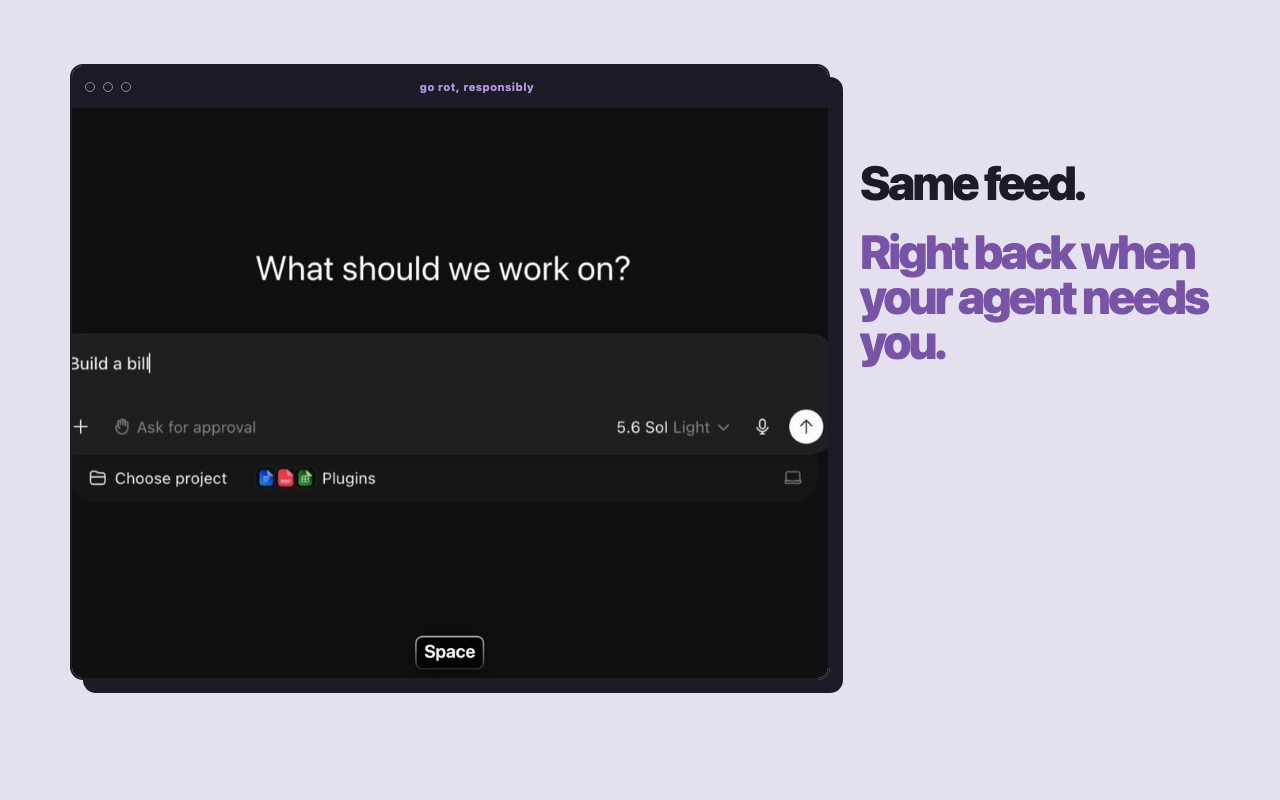
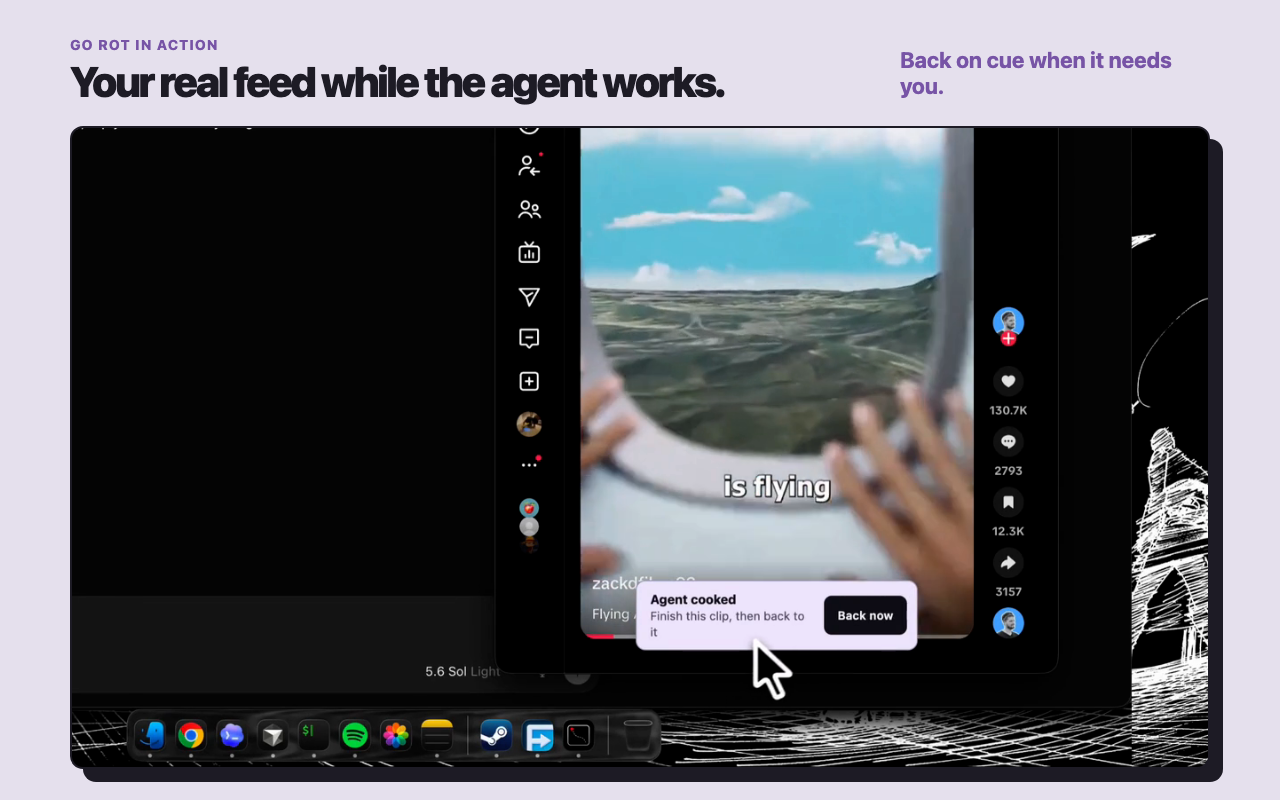
improve Chrome Store artwork

diff --git a/release/chrome-store/store-art.css b/release/chrome-store/store-art.css
@@ -51,12 +51,13 @@ h1 span { color: var(--lilac); }
 
 body[data-asset="screenshot-demo"] .copy,
 body[data-asset="screenshot-demo"] .panel-shot { display: none; }
-body[data-asset="screenshot-demo"] .demo-shot { display: block; width: 100%; height: 100%; padding: 64px 70px; }
-.demo-frame { width: 760px; overflow: hidden; border: 2px solid var(--graphite); border-radius: 13px; box-shadow: 13px 13px 0 var(--graphite); }
-.demo-frame img { display: block; width: 100%; height: 570px; object-fit: cover; }
-.demo-copy { position: absolute; top: 160px; right: 70px; width: 350px; }
-.demo-copy p { margin: 0; font-size: 47px; font-weight: 840; letter-spacing: -0.055em; line-height: 0.96; }
-.demo-copy p + p { margin-top: 24px; color: var(--lilac); }
+body[data-asset="screenshot-demo"] .demo-shot { display: block; width: 100%; height: 100%; padding: 36px 70px 0; }
+.demo-copy { display: flex; width: 1140px; align-items: flex-end; justify-content: space-between; }
+.demo-eyebrow { margin: 0 0 7px; color: var(--lilac); font-size: 14px; font-weight: 790; letter-spacing: 0.075em; text-transform: uppercase; }
+.demo-copy h2 { margin: 0; font-size: 42px; font-weight: 860; letter-spacing: -0.055em; line-height: 1; }
+.demo-return { width: 310px; margin: 0 0 3px; color: var(--lilac); font-size: 22px; font-weight: 720; line-height: 1.15; }
+.demo-frame { width: 1140px; margin-top: 24px; overflow: hidden; border: 2px solid var(--graphite); border-radius: 13px; background: var(--graphite); box-shadow: 13px 13px 0 var(--graphite); }
+.demo-frame img { display: block; width: 100%; aspect-ratio: 16 / 9; object-fit: cover; }
 
 body[data-asset="promo-small"] .copy,
 body[data-asset="promo-small"] .panel-shot,
@@ -71,6 +72,7 @@ body[data-asset="promo-marquee"] .promo { display: flex; position: absolute; ins
 .promo strong { font-size: 58px; font-weight: 880; letter-spacing: -0.07em; line-height: 0.9; }
 .promo span { margin-top: 12px; color: var(--lilac-bright); font-size: 16px; font-weight: 690; letter-spacing: 0.04em; }
 body[data-asset="promo-small"] .promo { gap: 15px; }
+body[data-asset="promo-small"] .promo > * { transform: translateX(-30px); }
 body[data-asset="promo-small"] .promo img { width: 66px; height: 66px; }
 body[data-asset="promo-small"] .promo strong { font-size: 42px; }
 body[data-asset="promo-small"] .promo span { margin-top: 8px; font-size: 12px; }

diff --git a/release/chrome-store/store-art.html b/release/chrome-store/store-art.html
@@ -26,13 +26,15 @@
       </section>
 
       <section class="demo-shot" aria-label="Go Rot demo">
-        <div class="demo-frame">
-          <div class="browser-bar"><i></i><i></i><i></i><span>go rot, responsibly</span></div>
-          <img src="../../site/assets/go-rot-poster.jpg" alt="" />
-        </div>
         <div class="demo-copy">
-          <p>Same feed.</p>
-          <p>Right back when your agent needs you.</p>
+          <div>
+            <p class="demo-eyebrow">Go Rot in action</p>
+            <h2>Your real feed while the agent works.</h2>
+          </div>
+          <p class="demo-return">Back on cue when it needs you.</p>
+        </div>
+        <div class="demo-frame">
+          <img src="demo-feed-frame.png" alt="TikTok playing beside Codex with Go Rot's return notice visible" />
         </div>
       </section>
 
